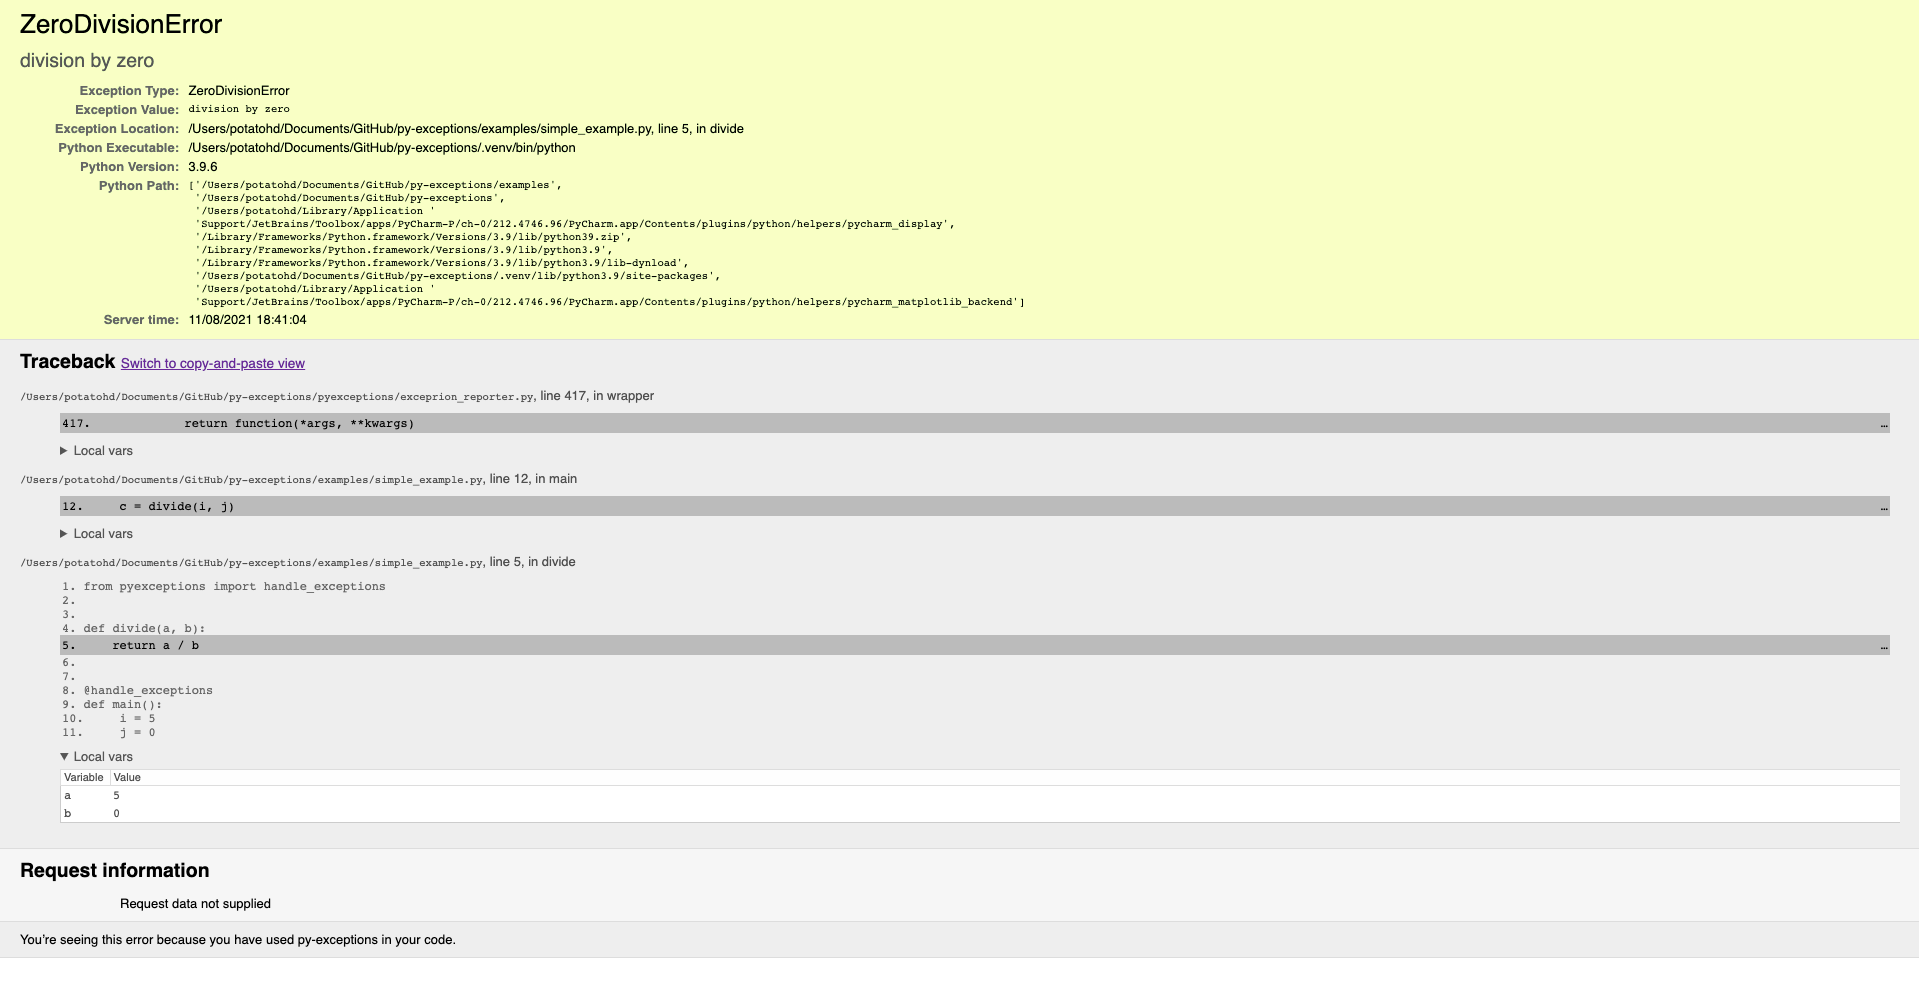
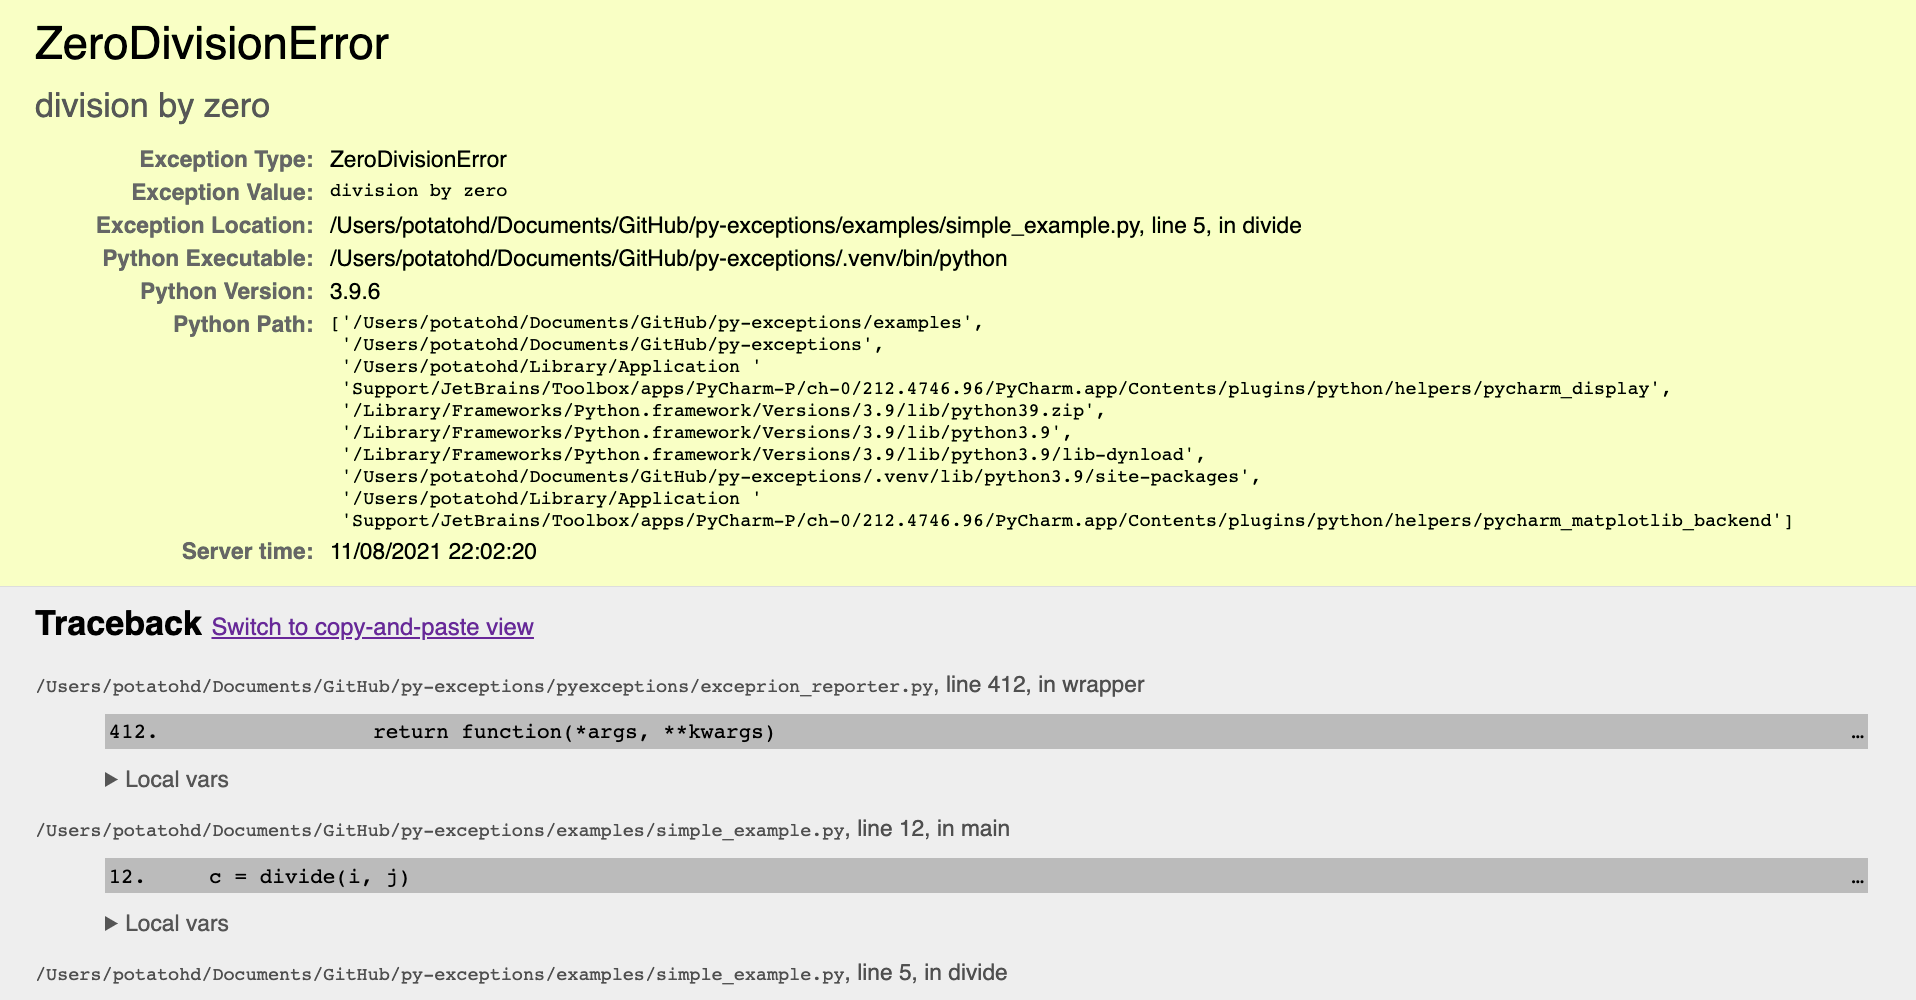
Fixed documentation and added exclude

diff --git a/pyexceptions/exceprion_reporter.py b/pyexceptions/exceprion_reporter.py
@@ -6,6 +6,7 @@ import base64
 import inspect
 import logging
 from pathlib import Path
+from functools import wraps
 from datetime import datetime
 from http.cookies import SimpleCookie
 from werkzeug.wrappers import Response
@@ -32,9 +33,13 @@ dt_string = datetime.now().strftime("%d/%m/%Y %H:%M:%S")
 class ExceptionReporter:
     """Organize and coordinate reporting on exceptions."""
 
-    def __init__(self, lambda_event: dict = None, context=None, exclude=None):
+    def __init__(self, lambda_event: dict = None, context: object = None, exclude: int = None):
         self.filter = SafeExceptionReporterFilter()
         self.context = context
+        if exclude is None:
+            exclude = 1
+        else:
+            exclude += 1
         self.exclude = exclude
         self.exc_type, self.exc_value, self.tb = sys.exc_info()
         self.request = None
@@ -51,7 +56,7 @@ class ExceptionReporter:
             else:
                 body = _to_bytes(body, charset='utf-8')
 
-            cookies = event.get('cookie', {})
+            cookies = headers.get('cookie', {})
             if cookies != {}:
                 cookie = SimpleCookie()
                 cookie.load(cookies)
@@ -313,7 +318,7 @@ class ExceptionReporter:
             except IndexError:
                 break
             tb = exc_value.__traceback__
-        return frames[1:]
+        return frames[self.exclude:]
 
     def get_exception_traceback_frames(self, exc_value, tb):
         exc_cause = self._get_explicit_or_implicit_cause(exc_value)
@@ -383,13 +388,13 @@ class ExceptionReporter:
 class ExceptionHandler:
     """Organize and coordinate reporting on exceptions."""
 
-    def __init__(self, lambda_event: dict = None, context: object = None, exclude: str = None):
+    def __init__(self, lambda_event: dict = None, context: object = None, exclude: int = 1):
         """Exception reporter initializer
 
         Args:
             lambda_event (dict, optional): AWS lambda event. Defaults to None.
             context (object, optional): AWS lambda context. Defaults to None.
-            exclude (str, optional): Function to exclude Defaults to None.
+            exclude (int, optional): Determines how many frames of traceback to exclude. Defaults None.
 
         """
         self.__reporter = ExceptionReporter(lambda_event, context, exclude)
@@ -403,25 +408,27 @@ class ExceptionHandler:
         return self.__reporter.get_lambda_response()
 
 
-def handle_exceptions(is_lambda: bool = False, save: bool = True,
-                      exceptions_folder: str = None, exclude: str = None, only_last: bool = True):
+def handle_exceptions(func: callable = None, is_lambda: bool = False, save: bool = True,
+                      exceptions_folder: str = None, exclude: int = None, only_last: bool = True):
     """Organize and coordinate reporting on exceptions.
 
     Args:
+        func (bool, callable): Decorator function. You don't have to set it up yourself.
         is_lambda (bool, optional): Set true if you want to handle lambda function. Defaults to False.
         save (bool, optional): Set true if you want the function to save html. Defaults to True.
         exceptions_folder (str, optional): Sets the exceptions folder. Defaults to working_directory/handled_exceptions.
-        exclude (str, optional): Determines which part of stacktrace to exclude. Defaults to None.
+        exclude (int, optional): Determines how many frames of traceback to exclude. Defaults None.
         only_last (bool, optional): Determines whether only last report should be saved. Defaults to True.
 
     Raises:
         OSError: If file was not written correctly this error will raise
     """
 
-    def decorator(function):
+    @wraps(func)
+    def decorator(func):
         def wrapper(*args, **kwargs):
             try:
-                return function(*args, **kwargs)
+                return func(*args, **kwargs)
             except Exception:  # noqa
                 if is_lambda:
                     return ExceptionHandler(*args[:2], exclude=exclude).get_traceback_lambda()
@@ -431,7 +438,7 @@ def handle_exceptions(is_lambda: bool = False, save: bool = True,
                     file_name = f'handled_exception_{time_string}.html'
                     folder = exceptions_folder
                     if folder is None:
-                        folder = os.path.dirname(os.path.abspath(inspect.getfile(function)))
+                        folder = os.path.dirname(os.path.abspath(inspect.getfile(func)))
                         folder = os.path.join(folder, 'handled_exceptions')
                     Path(folder).mkdir(parents=True, exist_ok=True)
                     if only_last:
@@ -451,4 +458,7 @@ def handle_exceptions(is_lambda: bool = False, save: bool = True,
 
         return wrapper
 
-    return decorator
+    if func:
+        return decorator(func)
+    else:
+        return decorator

diff --git a/setup.py b/setup.py
@@ -9,7 +9,7 @@ README = (HERE / "README.md").read_text()
 
 setup(
     name='py-exceptions',
-    version='1.1.0',
+    version='1.2.1',
     url='https://github.com/PotatoHD404/py-exceptions',
     description='A simple python exception reporter',
     author='PotatoHD404',

diff --git a/pyexceptions/jinja_changes.py b/pyexceptions/jinja_changes.py
@@ -30,7 +30,7 @@ def add(value, arg):
     except (ValueError, TypeError):
         try:
             return value + arg
-        except Exception: # noqa
+        except Exception:  # noqa
             return ''
 
 

diff --git a/examples/exclude_example.py b/examples/exclude_example.py
@@ -16,7 +16,7 @@ def wrapper():
     real_main()
 
 
-@handle_exceptions(exclude='exclude_example.wrapper')
+@handle_exceptions(exclude=2)
 def main():
     wrapper()
 

diff --git a/README.md b/README.md
@@ -11,7 +11,9 @@ The library nicely covers all your secret variables and request data in its repo
 
 ### Screenshots
 
-![Beautiful image](/images/demo.png)
+![Beautiful image](https://raw.githubusercontent.com/potatohd404/py-exceptions/master/images/demo.png)
+
+![Another beautiful image](https://raw.githubusercontent.com/potatohd404/py-exceptions/master/images/demo2.png)
 
 ## Quickstart
 
@@ -77,14 +79,14 @@ from pyexceptions import handle_exceptions
 
 
 @handle_exceptions(is_lambda=True)
-def lambda_handler(event, context):  # noqa
+def lambda_handler(event, context):
     message = f"Hello {event['first_name']} {event['last_name']}!"
     return {
         'message': message
     }
 ```
 
-<!-- ### Exclude from stacktrace
+### Exclude from stacktrace
 
 There may be situations when you don't want to see part of stacktrace
 
@@ -105,7 +107,7 @@ def real_main():
 def wrapper():
     real_main()
 
-@handle_exceptions(exclude = 'exclude_example.wrapper')
+@handle_exceptions(exclude = 3)
 def main():
     wrapper()
 
@@ -114,19 +116,19 @@ if __name__ == '__main__':
 ```
 
 and you want to exclude all stacktrace from main to wrapper
-you need to pass `file_name.function_name` as exclude argument -->
+you need to pass `file_name.function_name` as exclude argument
 
 ### Other functions
 
 You can also want to use these functions:
 
-Make function that returns HTML:
+Make function that returns HTML and don't save the result:
 
 ```python
 from pyexceptions import handle_exceptions
 
 
-@handle_exceptions(return_html=True)
+@handle_exceptions(save=False)
 def main():
     ...
 ```
@@ -134,25 +136,24 @@ def main():
 Or you may want to write your own logic To do so you need to import the ExceptionHandler class
 
 ```python
-from pyexceptions import ExceptionHandler  # noqa
+from pyexceptions import ExceptionHandler
 ```
 
-To be clear here how it looks like:
+That's how it looks like:
 
 ```python
-
 
 class ExceptionHandler:
     """Organize and coordinate reporting on exceptions."""
 
-    def __init__(self, lambda_event: dict = None, context: object = None, exclude: str = None):
+    def __init__(self, lambda_event: dict = None, context: object = None, exclude: int = 1):
         """Exception reporter initializer
-        
+
         Args:
             lambda_event (dict, optional): AWS lambda event. Defaults to None.
             context (object, optional): AWS lambda context. Defaults to None.
-            exclude (str, optional): Function to exclude Defaults to None.
-        
+            exclude (int, optional): Determines how many frames of traceback to exclude. Defaults 1.
+
         """
         self.__reporter = ExceptionReporter(lambda_event, context, exclude)  # noqa
 
